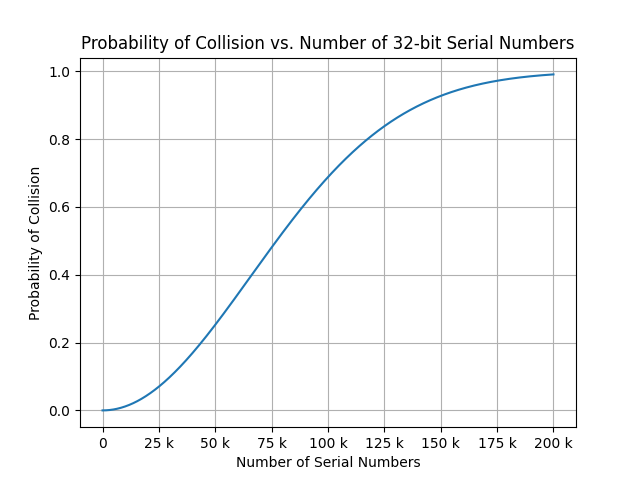
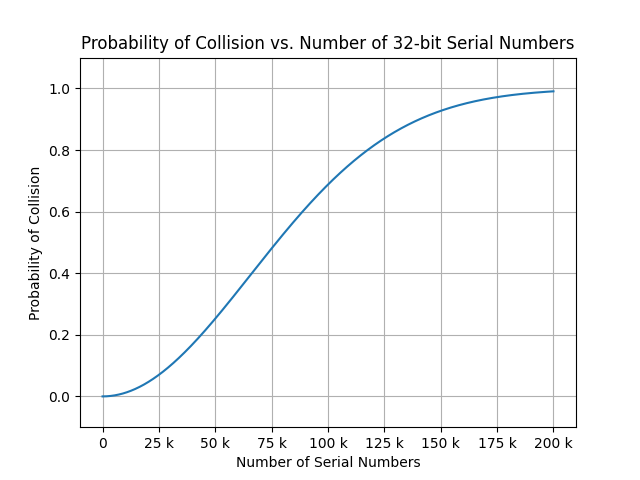
Added more info on serial numbers.

diff --git a/content/programming/firmware/choosing-serial-numbers-for-embedded-products/_assets/main.py b/content/programming/firmware/choosing-serial-numbers-for-embedded-products/_assets/main.py
@@ -9,16 +9,28 @@ SCRIPT_PATH = Path(__file__).parent
 def main():
     numOfSerialNumbers = np.linspace(1, 200000, 1000)
     # numOfSerialNumbers = np.linspace(1, 1000, 1000)
-    numOfBits = 32
-    pCollision = calcProbabilityOfCollision(numOfSerialNumbers, numOfBits)
+    pCollision32Bit = calcProbabilityOfCollision(numOfSerialNumbers, 32)
     fig, ax = plt.subplots()
-    ax.plot(numOfSerialNumbers, pCollision)
+    ax.plot(numOfSerialNumbers, pCollision32Bit)
     ax.set(xlabel='Number of Serial Numbers', ylabel='Probability of Collision',
               title='Probability of Collision vs. Number of 32-bit Serial Numbers')
     ticker = matplotlib.ticker.EngFormatter(unit='')
     ax.xaxis.set_major_formatter(ticker)
+    ax.set_ylim(-0.1, 1.1)
     ax.grid()
     plt.savefig(SCRIPT_PATH / 'probability-of-collision-32-bit.png')
+
+    numOfSerialNumbers = np.linspace(1, 1e12, 1000)
+    pCollision64Bit = calcProbabilityOfCollision(numOfSerialNumbers, 64)
+    fig, ax = plt.subplots()
+    ax.plot(numOfSerialNumbers, pCollision64Bit)
+    ax.set(xlabel='Number of Serial Numbers', ylabel='Probability of Collision',
+              title='Probability of Collision vs. Number of 64-bit Serial Numbers')
+    ticker = matplotlib.ticker.EngFormatter(unit='')
+    ax.xaxis.set_major_formatter(ticker)
+    ax.set_ylim(-0.1, 1.1)
+    ax.grid()
+    plt.savefig(SCRIPT_PATH / 'probability-of-collision-64-bit.png')
 
 def calcProbabilityOfCollision(numOfSerialNumbers, numOfBits):
     numOfComparisons = numOfSerialNumbers * (numOfSerialNumbers - 1) / 2

diff --git a/content/programming/firmware/choosing-serial-numbers-for-embedded-products/_index.md b/content/programming/firmware/choosing-serial-numbers-for-embedded-products/_index.md
@@ -15,7 +15,15 @@ type: page
 
 Serial numbers are crucial for embedded devices that you want to individually track. They are used for uniquely identifying devices when talking to a server, warranty purposes and more. There a few ways to go about generating serial numbers. We'll first discuss a few different methods, and then dive into how to calculate the probability of a collision when using random serial numbers.
 
+## Non-Random Serial Numbers
+
 If you want to assign you own (and typically write it to non-volatile memory (NVM) like EEPROM or flash) you can go with an incrementing serial number. This works well as long as you have a centralized place to store the last used serial number, and don't have to generate serial numbers across factories at the same time. The downside is that it's an extra step in the assembly process, and you may already need to use MAC addresses for others reasons, so now you have two serial numbers to keep track of. Of course, another option across multiple sites is to prefix a unique ID with a site ID.
+
+{{% aside type="tip" %}}
+
+Perhaps you want random numbers for serial numbers to obscure the number of devices you have sold. In WW2, Allied forces we able to estimate the number of tanks Axis forces had by looking at the serial numbers. Parts of the tank (e.g. chassis, gearbox, engine) where assigned sequential serial numbers. Based on the numbers of the tanks that the Allied forces captured, they were able to use statistics to estimate the total number[^wikipedia-german-tank-problem].
+
+{{% /aside %}}
 
 ## Random Serial Numbers
 
@@ -29,9 +37,9 @@ One way to solve this is to consider comparing every serial number you generate 
 
 So we need to know how many combinations of serial numbers there are. Because the order does not matter (comparing serial number 1 with serial number 2 is the same as comparing serial number 2 with serial number 1), we are dealing with true mathematical combinations and not permutations (read up on this if you need to learn about these concepts). The equation that tells you the number of combinations given the total number of items and the number of items in each sample is[^calculator-soup-combinations-calculator]:
 
-$$
+$$\begin{align*}
 C(n,\ r) = \frac{n!}{r!(n-r)!}
-$$
+\end{align*}$$
 
 Where \(n\) is the total number of items, and \(r\) is the number of items in each sample.
 
@@ -39,9 +47,33 @@ Where \(n\) is the total number of items, and \(r\) is the number of items in ea
 
 $$\begin{align*}
 C(1000,\ 2) &= \frac{1000!}{2!(1000-2)!} \\
-                  &= \frac{1000*999}{2!} \\
+                  &= \frac{1000 \times 999}{2} \\
                   &= 499500 \\
 \end{align*}$$
+
+{{% aside type="tip" %}}
+
+You might be wondering how \(\dfrac{1000!}{2!(1000-2)!}\) simplifies to \(\dfrac{1000 \times 999}{2!}\). Most calculators will not be able to handle \(1000!\)! Luckily, there is a handy simplification which makes the equation more managable:
+
+$$\begin{align*}
+C(1000,\ 2) &= \frac{1000!}{2!(1000-2)!} \\
+            &= \frac{1000!}{2! \times 998!} \\
+            &= \frac{1000 \times 999 \times 998!}{2 \times 998!} \\
+\end{align*}$$
+
+The \(998!\) terms cancel out, leaving you with:
+
+$$\begin{align*}
+\frac{1000 \times 999}{2}
+\end{align*}$$
+
+This means you can simplify the combination equation when \(r = 2\) to the following:
+
+$$\begin{align*}
+C(n,\ 2) = \frac{n\times (n-1)}{2}
+\end{align*}$$
+
+{{% /aside %}}
 
 ## Probability of a Collision
 
@@ -62,9 +94,15 @@ P(\text{any two are unique}) &= 1 - \frac{1}{2^{32}} \\
                              &= 0.999999999767169356 \\
 \end{align*}$$
 
+{{% aside type="tip" %}}
+
+We are going to have to go to a large number of decimal places to make sure we don't loose precision! When doing these calculators make sure you use suitably sized floats.
+
+{{% /aside %}}
+
 ## Probability of No Collisions For All Checks
 
-So we know the probability of a single check containing two unique numbers. You then multiply this probability by the number of checks you need to do (e.g. 499500 times with 100,000 serial numbers) to get the probability that all serial numbers are unique. i.e.:
+So we know the probability of a single check containing two unique numbers. You then multiply this probability by the number of checks you need to do (e.g. 499500 times with 1,000 serial numbers) to get the probability that all serial numbers are unique. i.e.:
 
 $$\begin{align*}
 P(\text{all are unique}) &= (P(\text{any two are unique}))^{499500} \\
@@ -75,9 +113,9 @@ P(\text{all are unique}) &= (P(\text{any two are unique}))^{499500} \\
 Now we just subtract this from 1 to get the probability that at least one serial number is the same as another:
 
 $$\begin{align*}
-P(\text{collision}) = 1 - P(\text{all are unique}) \\
-                    = 1 - 0.999883707855937023 \\
-                    = 0.00011629214406297607843 \\
+P(\text{collision}) &= 1 - P(\text{all are unique}) \\
+                    &= 1 - 0.999883707855937023 \\
+                    &= 0.00011629214406297607843 \\
 \end{align*}$$
 
 This is a 1 in 8600 chance of a collision.
@@ -85,18 +123,23 @@ This is a 1 in 8600 chance of a collision.
 Putting it all together in a generic/symbolic form:
 
 $$
-P(\text{collision}) = 1 - \left[(1-P(\text{any two are identical}))^{\dfrac{n*(n-1)}{2}}\right]
+P(\text{collision}) = 1 - \left[(1-P(\text{any two are identical}))^{\dfrac{n \times (n-1)}{2}}\right]
 $$
 
 Where \(n\) is the total number of serial numbers and \(P(\text{any two are identical})\) is the probability that any two serial numbers are the same. In the case of using a fixed number of bits for the serial number, this probability equation becomes:
 
 $$
-P(\text{collision}) = 1 - \left[(1-\dfrac{1}{2^{b}})^{\dfrac{n*(n-1)}{2}}\right]
+P(\text{collision}) = 1 - \left[(1-\dfrac{1}{2^{b}})^{\dfrac{n \times (n-1)}{2}}\right]
 $$
 
 Where \(b\) is the number of bits in the serial number. We can plot this:
 
 {{% figure src="_assets/probability-of-collision-32-bit.png" width="600px" caption="The probability of a collision when generating 32-bit random serial numbers for different numbers of devices." %}}
+
+You can see that we start running into significant issues with 32-bit random serial numbers as soon as we start manufacturing 1000's of devices. At 25,000 devices the probability of a collision is already at about 10%. We don't run into the same issue with 64-bit numbers. Below is the probability for 64-bit numbers, up to 1e12 device! (it's still a probability of almost 0 past this, it's just not worth plotting any further):
+
+{{% figure src="_assets/probability-of-collision-64-bit.png" width="600px" caption="The probability of a collision when generating 64-bit random serial numbers for different numbers of devices." %}}
+
 
 {{% aside type="example" %}}
 
@@ -107,8 +150,8 @@ If you were planning on manufacturing 100,000 devices, and you were using a 32-b
 Let's start with the general equation above. Our \(n\) is 100,000 and our \(b\) is 32:
 
 $$\begin{align*}
-P(\text{collision}) &= 1 - \left[(1-\dfrac{1}{2^{b}})^{\dfrac{n*(n-1)}{2}}\right] \\
-                    &= 1 - \left[(1-\dfrac{1}{2^{32}})^{\dfrac{100000*(100000-1)}{2}}\right] \\
+P(\text{collision}) &= 1 - \left[(1-\dfrac{1}{2^{b}})^{\dfrac{n \times (n-1)}{2}}\right] \\
+                    &= 1 - \left[(1-\dfrac{1}{2^{32}})^{\dfrac{100000 \times (100000-1)}{2}}\right] \\
                     &= 1 - \left[(1-\dfrac{1}{4294967296})^{4999950000}\right] \\
                     &= 1 - \left[(0.99999999976716935635)^{4999950000}\right] \\
                     &= 1 - 0.31219053861894671205 \\
@@ -119,8 +162,8 @@ P(\text{collision}) &= 1 - \left[(1-\dfrac{1}{2^{b}})^{\dfrac{n*(n-1)}{2}}\right
 So there is a 69% chance of a collision if generating 32-bit random serial numbers for 100,000 devices! Not good :-O. What if we used a 64-bit serial number instead?
 
 $$\begin{align*}
-P(\text{collision}) &= 1 - \left[(1-\dfrac{1}{2^{b}})^{\dfrac{n*(n-1)}{2}}\right] \\
-                    &= 1 - \left[(1-\dfrac{1}{2^{64}})^{\dfrac{100000*(100000-1)}{2}}\right] \\
+P(\text{collision}) &= 1 - \left[(1-\dfrac{1}{2^{b}})^{\dfrac{n \times (n-1)}{2}}\right] \\
+                    &= 1 - \left[(1-\dfrac{1}{2^{64}})^{\dfrac{100000 \times (100000-1)}{2}}\right] \\
                     &= 1 - \left[(0.999999999999999999945789891376)^{4999950000}\right] \\
                     &= 1 - 0.999999999728952167420788569031 \\
                     &= 2.71047832579211430968543149181e-10 \\
@@ -145,7 +188,7 @@ $$
 The number of people in the room is 23, so that is our \(n\). Substituting into the general equation:
 
 $$\begin{align*}
-P(\text{collision}) &= 1 - \left[(1-\frac{1}{365})^{\dfrac{23*(23-1)}{2}}\right]
+P(\text{collision}) &= 1 - \left[(1-\frac{1}{365})^{\dfrac{23 \times (23-1)}{2}}\right]
                     &= 1 - \left[(\frac{364}{365})^{253}\right]
                     &= 1 - 0.499
                     &= 0.501
@@ -159,3 +202,4 @@ Which gives us a 50% chance of collision, as expected.
 ## References
 
 [^calculator-soup-combinations-calculator]: Calculator Soup. _Combinations Calculator (nCr)_. Retrieved 2024-06-02, from https://www.calculatorsoup.com/calculators/discretemathematics/combinations.php.
+[^wikipedia-german-tank-problem]: Wikipedia (2024, Jan 4). _German tank problem_. Retrieved 2024-06-03, from https://en.wikipedia.org/wiki/German_tank_problem.
